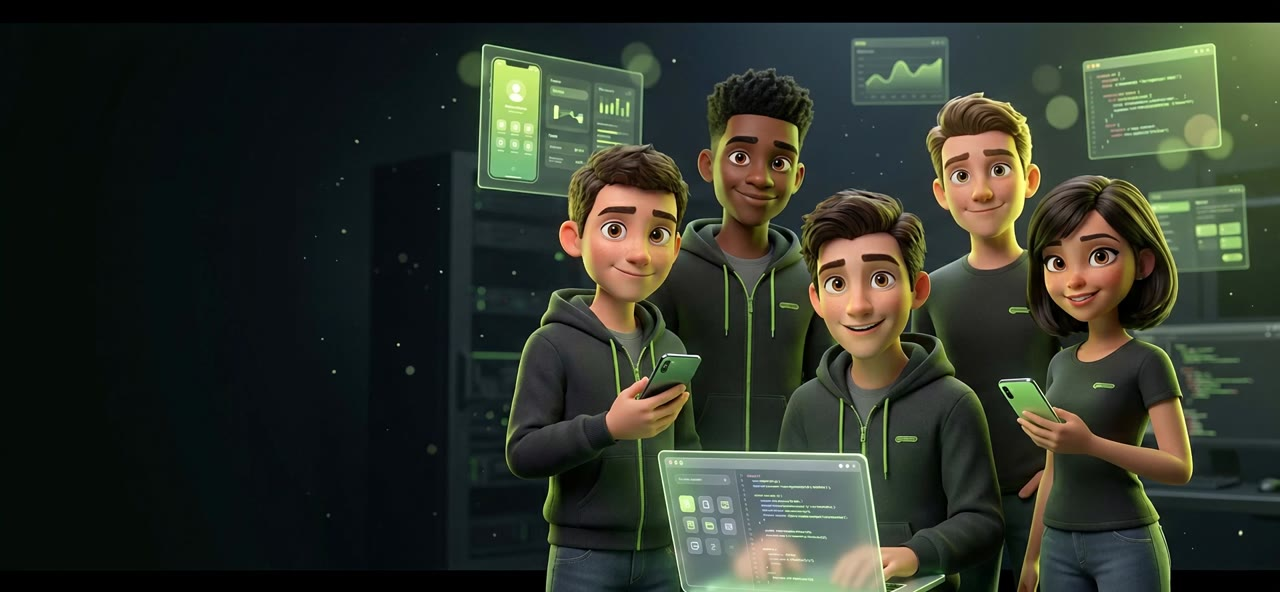
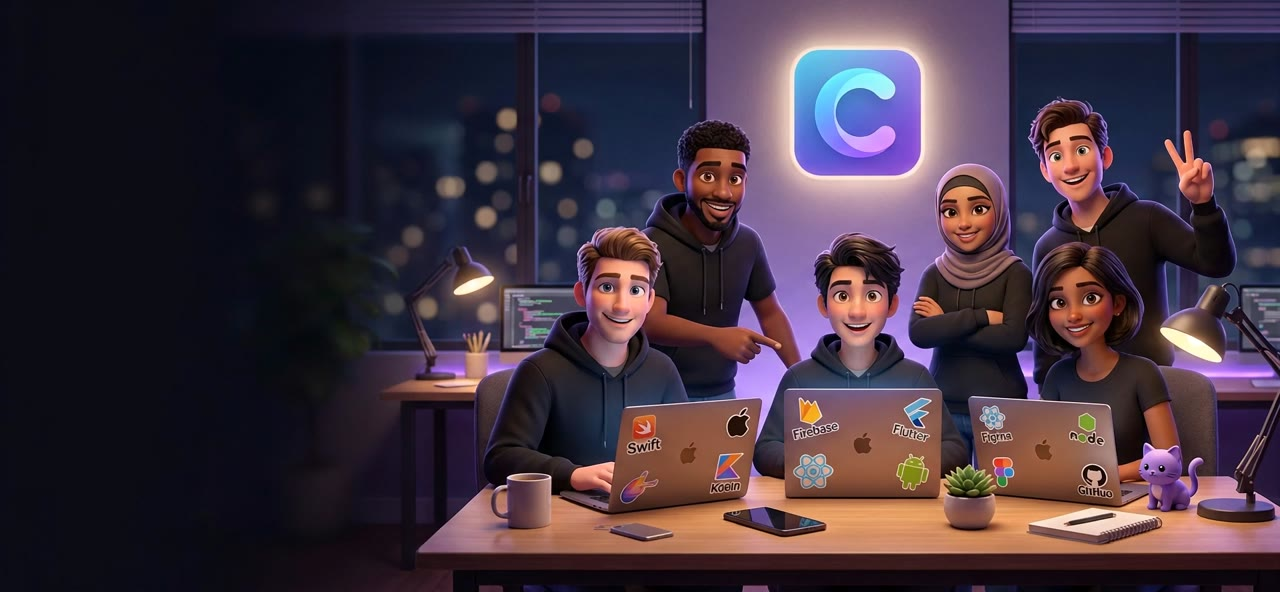
Deploy violet redesign

diff --git a/index.html b/index.html
@@ -4,7 +4,7 @@
     <meta charset="UTF-8" />
     <link rel="icon" type="image/svg+xml" href="/cgp-app-landing/favicon.svg" />
     <meta name="viewport" content="width=device-width, initial-scale=1.0, viewport-fit=cover" />
-    <meta name="theme-color" content="#08090a" />
+    <meta name="theme-color" content="#0b0a14" />
     <title>CGP.APP — Продуктовая команда. Создаём мобильные приложения</title>
     <meta
       name="description"
@@ -23,8 +23,8 @@
       rel="stylesheet"
     />
     <link rel="preload" as="image" href="/cgp-app-landing/video/team-poster.webp" fetchpriority="high" />
-    <script type="module" crossorigin src="/cgp-app-landing/assets/index-VWcQB9xP.js"></script>
-    <link rel="stylesheet" crossorigin href="/cgp-app-landing/assets/index-D9rqdx-E.css">
+    <script type="module" crossorigin src="/cgp-app-landing/assets/index-Bf8wi-yc.js"></script>
+    <link rel="stylesheet" crossorigin href="/cgp-app-landing/assets/index-BQWzrwIE.css">
   </head>
   <body>
     <div id="root"></div>

diff --git a/assets/index-BQWzrwIE.css b/assets/index-BQWzrwIE.css
@@ -1,0 +1,2 @@
+/*! tailwindcss v4.3.1 | MIT License | https://tailwindcss.com */
+@layer properties{@supports (((-webkit-hyphens:none)) and (not (margin-trim:inline))) or ((-moz-orient:inline) and (not (color:rgb(from red r g b)))){*,:before,:after,::backdrop{--tw-rotate-x:initial;--tw-rotate-y:initial;--tw-rotate-z:initial;--tw-skew-x:initial;--tw-skew-y:initial;--tw-blur:initial;--tw-brightness:initial;--tw-contrast:initial;--tw-grayscale:initial;--tw-hue-rotate:initial;--tw-invert:initial;--tw-opacity:initial;--tw-saturate:initial;--tw-sepia:initial;--tw-drop-shadow:initial;--tw-drop-shadow-color:initial;--tw-drop-shadow-alpha:100%;--tw-drop-shadow-size:initial}}}@layer theme{:root,:host{--font-sans:ui-sans-serif, system-ui, sans-serif, "Apple Color Emoji", "Segoe UI Emoji", "Segoe UI Symbol", "Noto Color Emoji";--font-mono:ui-monospace, SFMono-Regular, Menlo, Monaco, Consolas, "Liberation Mono", "Courier New", monospace;--spacing:.25rem;--radius-sm:.25rem;--default-transition-duration:.15s;--default-transition-timing-function:cubic-bezier(.4, 0, .2, 1);--default-font-family:var(--font-sans);--default-mono-font-family:var(--font-mono)}}@layer base{*,:after,:before,::backdrop{box-sizing:border-box;border:0 solid;margin:0;padding:0}::file-selector-button{box-sizing:border-box;border:0 solid;margin:0;padding:0}html,:host{-webkit-text-size-adjust:100%;tab-size:4;line-height:1.5;font-family:var(--default-font-family,ui-sans-serif, system-ui, sans-serif, "Apple Color Emoji", "Segoe UI Emoji", "Segoe UI Symbol", "Noto Color Emoji");font-feature-settings:var(--default-font-feature-settings,normal);font-variation-settings:var(--default-font-variation-settings,normal);-webkit-tap-highlight-color:transparent}hr{height:0;color:inherit;border-top-width:1px}abbr:where([title]){-webkit-text-decoration:underline dotted;text-decoration:underline dotted}h1,h2,h3,h4,h5,h6{font-size:inherit;font-weight:inherit}a{color:inherit;-webkit-text-decoration:inherit;-webkit-text-decoration:inherit;-webkit-text-decoration:inherit;-webkit-text-decoration:inherit;text-decoration:inherit}b,strong{font-weight:bolder}code,kbd,samp,pre{font-family:var(--default-mono-font-family,ui-monospace, SFMono-Regular, Menlo, Monaco, Consolas, "Liberation Mono", "Courier New", monospace);font-feature-settings:var(--default-mono-font-feature-settings,normal);font-variation-settings:var(--default-mono-font-variation-settings,normal);font-size:1em}small{font-size:80%}sub,sup{vertical-align:baseline;font-size:75%;line-height:0;position:relative}sub{bottom:-.25em}sup{top:-.5em}table{text-indent:0;border-color:inherit;border-collapse:collapse}:-moz-focusring{outline:auto}progress{vertical-align:baseline}summary{display:list-item}ol,ul,menu{list-style:none}img,svg,video,canvas,audio,iframe,embed,object{vertical-align:middle;display:block}img,video{max-width:100%;height:auto}button,input,select,optgroup,textarea{font:inherit;font-feature-settings:inherit;font-variation-settings:inherit;letter-spacing:inherit;color:inherit;opacity:1;background-color:#0000;border-radius:0}::file-selector-button{font:inherit;font-feature-settings:inherit;font-variation-settings:inherit;letter-spacing:inherit;color:inherit;opacity:1;background-color:#0000;border-radius:0}:where(select:is([multiple],[size])) optgroup{font-weight:bolder}:where(select:is([multiple],[size])) optgroup option{padding-inline-start:20px}::file-selector-button{margin-inline-end:4px}::placeholder{opacity:1}@supports (not ((-webkit-appearance:-apple-pay-button))) or (contain-intrinsic-size:1px){::placeholder{color:currentColor}@supports (color:color-mix(in lab, red, red)){::placeholder{color:color-mix(in oklab, currentcolor 50%, transparent)}}}textarea{resize:vertical}::-webkit-search-decoration{-webkit-appearance:none}::-webkit-date-and-time-value{min-height:1lh;text-align:inherit}::-webkit-datetime-edit{display:inline-flex}::-webkit-datetime-edit-fields-wrapper{padding:0}::-webkit-datetime-edit{padding-block:0}::-webkit-datetime-edit-year-field{padding-block:0}::-webkit-datetime-edit-month-field{padding-block:0}::-webkit-datetime-edit-day-field{padding-block:0}::-webkit-datetime-edit-hour-field{padding-block:0}::-webkit-datetime-edit-minute-field{padding-block:0}::-webkit-datetime-edit-second-field{padding-block:0}::-webkit-datetime-edit-millisecond-field{padding-block:0}::-webkit-datetime-edit-meridiem-field{padding-block:0}::-webkit-calendar-picker-indicator{line-height:1}:-moz-ui-invalid{box-shadow:none}button,input:where([type=button],[type=reset],[type=submit]){appearance:button}::file-selector-button{appearance:button}::-webkit-inner-spin-button{height:auto}::-webkit-outer-spin-button{height:auto}[hidden]:where(:not([hidden=until-found])){display:none!important}}@layer components;@layer utilities{.fixed{position:fixed}.container{width:100%}@media (width>=40rem){.container{max-width:40rem}}@media (width>=48rem){.container{max-width:48rem}}@media (width>=64rem){.container{max-width:64rem}}@media (width>=80rem){.container{max-width:80rem}}@media (width>=96rem){.container{max-width:96rem}}.flex{display:flex}.hidden{display:none}.inline-flex{display:inline-flex}.h-3{height:calc(var(--spacing) * 3)}.h-4{height:calc(var(--spacing) * 4)}.h-5{height:calc(var(--spacing) * 5)}.h-7{height:calc(var(--spacing) * 7)}.h-\[18px\]{height:18px}.w-3{width:calc(var(--spacing) * 3)}.w-4{width:calc(var(--spacing) * 4)}.w-5{width:calc(var(--spacing) * 5)}.w-7{width:calc(var(--spacing) * 7)}.w-\[18px\]{width:18px}.transform{transform:var(--tw-rotate-x,) var(--tw-rotate-y,) var(--tw-rotate-z,) var(--tw-skew-x,) var(--tw-skew-y,)}.filter{filter:var(--tw-blur,) var(--tw-brightness,) var(--tw-contrast,) var(--tw-grayscale,) var(--tw-hue-rotate,) var(--tw-invert,) var(--tw-saturate,) var(--tw-sepia,) var(--tw-drop-shadow,)}.transition{transition-property:color,background-color,border-color,outline-color,text-decoration-color,fill,stroke,--tw-gradient-from,--tw-gradient-via,--tw-gradient-to,opacity,box-shadow,transform,translate,scale,rotate,filter,-webkit-backdrop-filter,backdrop-filter,display,content-visibility,overlay,pointer-events;transition-timing-function:var(--tw-ease,var(--default-transition-timing-function));transition-duration:var(--tw-duration,var(--default-transition-duration))}}:root{--bg:#0b0a14;--bg-2:#0e0c1c;--panel:#14112a;--panel-2:#181534;--text:#f3f1fb;--muted:#9b95b8;--muted-2:#6f698f;--line:#221d3e;--line-2:#2d2750;--lime:#8b5cf6;--lime-solid:#7c5cff;--lime-dim:#8b5cf629;--grad-1:#5b9dff;--grad-2:#a855f7;--radius:12px;--radius-sm:8px;--maxw:1180px;--mono:"JetBrains Mono", ui-monospace, monospace;--sans:"Inter", system-ui, -apple-system, sans-serif}*{box-sizing:border-box;margin:0;padding:0}html{-webkit-text-size-adjust:100%}html.lenis,html.lenis body{height:auto}.lenis.lenis-smooth{scroll-behavior:auto!important}.lenis.lenis-stopped{overflow:hidden}body{background:var(--bg);color:var(--text);font-family:var(--sans);-webkit-font-smoothing:antialiased;text-rendering:optimizelegibility;font-size:16px;line-height:1.6;overflow-x:hidden}a{color:inherit;text-decoration:none}::selection{background:var(--lime-dim);color:var(--lime)}.wrap{max-width:var(--maxw);margin:0 auto;padding:0 24px}.mono{font-family:var(--mono)}h1,h2,h3{font-weight:600}::-webkit-scrollbar{width:10px}::-webkit-scrollbar-track{background:var(--bg)}::-webkit-scrollbar-thumb{background:var(--line-2);border:3px solid var(--bg);border-radius:99px}.scroll-progress{z-index:100;transform-origin:0;background:linear-gradient(90deg, var(--lime-solid), var(--lime));height:2px;position:fixed;top:0;left:0;right:0;transform:scaleX(0);box-shadow:0 0 12px #a3e63580}.grid-bg{z-index:0;pointer-events:none;background-image:linear-gradient(var(--line) 1px, transparent 1px), linear-gradient(90deg, var(--line) 1px, transparent 1px);opacity:.22;background-size:64px 64px;position:fixed;inset:0;-webkit-mask-image:radial-gradient(90% 55% at 50% 0,#000 8%,#0000 72%);mask-image:radial-gradient(90% 55% at 50% 0,#000 8%,#0000 72%)}header{z-index:50;-webkit-backdrop-filter:blur(10px);backdrop-filter:blur(10px);background:#08090a99;border-bottom:1px solid #0000;transition:border-color .3s,background .3s;position:fixed;top:0;left:0;right:0}header.scrolled{border-bottom-color:var(--line);background:#08090acc}.nav{justify-content:space-between;align-items:center;height:64px;display:flex}.brand{letter-spacing:-.02em;align-items:center;gap:10px;font-size:16px;font-weight:600;display:flex}.brand .logomark{flex:none;width:26px;height:26px}.brand b{color:var(--text);font-weight:700}.brand .dot-app{color:var(--lime);font-family:var(--mono);font-weight:500}.nav-links{align-items:center;gap:4px;display:flex}.nav-links a{color:var(--muted);border-radius:var(--radius-sm);padding:8px 12px;font-size:14px;transition:color .18s,background .18s}.nav-links a:hover{color:var(--text);background:var(--panel)}.nav-right{align-items:center;gap:12px;display:flex}.btn{border-radius:var(--radius-sm);cursor:pointer;white-space:nowrap;border:1px solid #0000;align-items:center;gap:8px;padding:9px 16px;font-size:14px;font-weight:500;transition:all .18s;display:inline-flex}.btn-primary{background:linear-gradient(100deg, var(--lime-solid), var(--grad-2));color:#fff;border-color:#0000;font-weight:600}.btn-primary:hover{filter:brightness(1.08);transform:translateY(-1px);box-shadow:0 10px 30px -8px #7c5cff99}.btn-ghost{color:var(--text);border-color:var(--line-2);background:0 0}.btn-ghost:hover{background:var(--panel);border-color:#3a3d44}.btn-lg{padding:12px 22px;font-size:15px}.burger{border:1px solid var(--line-2);border-radius:var(--radius-sm);width:40px;height:40px;color:var(--text);cursor:pointer;background:0 0;justify-content:center;align-items:center;display:none}.mobile-menu{z-index:60;-webkit-backdrop-filter:blur(16px);backdrop-filter:blur(16px);background:#08090af7;flex-direction:column;padding:0 24px;display:flex;position:fixed;inset:0}.mobile-menu a.m-link{border-bottom:1px solid var(--line);color:var(--text);padding:16px 0;font-size:26px;font-weight:600}main{z-index:1;position:relative}section{padding:84px 0}.badge{font-family:var(--mono);color:var(--muted);border:1px solid var(--line);background:var(--panel);border-radius:100px;align-items:center;gap:8px;padding:5px 11px;font-size:12px;display:inline-flex}.badge .pulse{background:var(--lime);border-radius:50%;width:7px;height:7px;animation:2.2s infinite pulse;box-shadow:0 0 #a3e63580}@keyframes pulse{50%{opacity:.5}}h1{letter-spacing:-.03em;font-size:clamp(36px,5.6vw,62px);font-weight:700;line-height:1.04}h1 .accent{background:linear-gradient(100deg, var(--grad-1), var(--grad-2));-webkit-text-fill-color:transparent;color:#0000;-webkit-background-clip:text;background-clip:text}.sub{color:var(--muted);max-width:500px;margin-top:20px;font-size:17px;line-height:1.6}.hero-cta{flex-wrap:wrap;align-items:center;gap:12px;margin-top:30px;display:flex}.trust{font-family:var(--mono);color:var(--muted);flex-wrap:wrap;align-items:center;gap:14px;margin-top:28px;font-size:13px;display:flex}.trust .star{color:var(--lime)}.trust .sep{background:var(--muted-2);border-radius:99px;width:3px;height:3px}.sec-head{max-width:640px;margin-bottom:44px}.sec-kicker{font-family:var(--mono);color:var(--lime);letter-spacing:.04em;align-items:center;gap:8px;margin-bottom:14px;font-size:12px;display:inline-flex}.sec-kicker .idx{color:var(--muted-2)}h2{letter-spacing:-.025em;font-size:clamp(26px,3.4vw,38px);font-weight:600;line-height:1.12}.sec-head p{color:var(--muted);margin-top:14px;font-size:16px}.vhero{border-bottom:1px solid var(--line);align-items:center;min-height:100svh;display:flex;position:relative;overflow:hidden}.vhero-media{z-index:0;will-change:transform, filter;position:absolute;inset:0}.vhero-media video,.vhero-media img.vposter{object-fit:cover;object-position:66% center;width:100%;height:100%;position:absolute;inset:0}.vhero-scrim{z-index:1;pointer-events:none;background:linear-gradient(90deg, var(--bg) 0%, #08090adb 30%, #08090a52 58%, #08090a1a 100%), linear-gradient(0deg, var(--bg) 2%, #08090a00 36%), radial-gradient(120% 90% at 78% 38%, #a3e6351a, transparent 60%);position:absolute;inset:0}.vhero-grid{z-index:2;pointer-events:none;opacity:.16;background-image:linear-gradient(var(--line) 1px, transparent 1px), linear-gradient(90deg, var(--line) 1px, transparent 1px);background-size:64px 64px;position:absolute;inset:0;-webkit-mask-image:radial-gradient(80% 70% at 28%,#000,#0000 72%);mask-image:radial-gradient(80% 70% at 28%,#000,#0000 72%)}.vhero-inner{z-index:5;width:100%;position:relative}.vhero-copy{max-width:620px}.eyebrow-chip{font-family:var(--mono);color:var(--lime);border:1px solid var(--lime-dim);background:#a3e6350f;border-radius:99px;align-items:center;gap:8px;padding:6px 12px;font-size:12.5px;display:inline-flex}.vhero h1{margin-top:22px}.vhero .sub{max-width:520px}.vchip{z-index:4;font-family:var(--mono);color:var(--text);border:1px solid var(--line-2);-webkit-backdrop-filter:blur(6px);backdrop-filter:blur(6px);background:#0e0f11b8;border-radius:10px;align-items:center;gap:7px;padding:7px 11px;font-size:12px;display:inline-flex;position:absolute}.vchip .d{background:var(--lime);border-radius:99px;width:7px;height:7px}.vchip.c1{top:19%;right:8%}.vchip.c2{top:45%;right:3%}.vchip.c3{bottom:17%;right:15%}@keyframes floaty{0%,to{transform:translateY(0)}50%{transform:translateY(-12px)}}.vpause{z-index:6;border:1px solid var(--line-2);-webkit-backdrop-filter:blur(6px);backdrop-filter:blur(6px);width:38px;height:38px;color:var(--text);cursor:pointer;background:#0e0f11b3;border-radius:99px;justify-content:center;align-items:center;transition:border-color .2s,color .2s;display:flex;position:absolute;bottom:18px;right:18px}.vpause:hover{border-color:var(--lime);color:var(--lime)}.scroll-hint{z-index:6;color:var(--muted-2);font-family:var(--mono);flex-direction:column;align-items:center;gap:6px;font-size:11px;display:flex;position:absolute;bottom:20px;left:50%;transform:translate(-50%)}.scroll-hint .m{border:1px solid var(--line-2);border-radius:99px;width:20px;height:32px;position:relative}.scroll-hint .m:after{content:"";background:var(--lime);border-radius:9px;width:3px;height:6px;animation:1.6s infinite scrolly;position:absolute;top:6px;left:50%;transform:translate(-50%)}@keyframes scrolly{0%{opacity:1;top:6px}70%{opacity:0;top:18px}to{opacity:0}}.strip{border-top:1px solid var(--line);border-bottom:1px solid var(--line);padding:22px 0;overflow:hidden}.strip-inner{align-items:center;gap:28px;display:flex}.strip-label{font-family:var(--mono);color:var(--muted-2);letter-spacing:.06em;text-transform:uppercase;white-space:nowrap;font-size:11px}.marquee-mask{flex:1;overflow:hidden;-webkit-mask-image:linear-gradient(90deg,#0000,#000 6% 94%,#0000);mask-image:linear-gradient(90deg,#0000,#000 6% 94%,#0000)}.marquee-row{will-change:transform;align-items:center;gap:40px;width:max-content;display:flex}.lg{color:var(--muted);white-space:nowrap;align-items:center;gap:8px;font-size:15px;font-weight:600;transition:color .2s;display:flex}.lg:hover{color:var(--text)}.stack{position:relative}.stack-card{border:1px solid var(--line);background:var(--panel);border-radius:var(--radius);transform-origin:top;padding:30px 28px;position:sticky;overflow:hidden}.stack-card .card-top{justify-content:space-between;align-items:center;margin-bottom:20px;display:flex}.card-ico{border:1px solid var(--line-2);width:44px;height:44px;color:var(--text);border-radius:10px;justify-content:center;align-items:center;transition:border-color .2s,color .2s;display:flex}.stack-card:hover .card-ico{border-color:var(--lime);color:var(--lime)}.card-num{font-family:var(--mono);color:var(--muted-2);font-size:12px}.stack-card h3{letter-spacing:-.01em;margin-bottom:10px;font-size:22px;font-weight:600}.stack-card p{color:var(--muted);max-width:560px;font-size:15px;line-height:1.6}.stack-card .arrow{font-family:var(--mono);color:var(--muted-2);align-items:center;gap:6px;margin-top:18px;font-size:13px;transition:color .2s,gap .2s;display:inline-flex}.stack-card:hover .arrow{color:var(--lime);gap:10px}.card-glow{opacity:0;background:radial-gradient(circle,#a3e6351a,#0000 70%);border-radius:50%;width:220px;height:220px;transition:opacity .3s;position:absolute;top:-40px;right:-40px}.stack-card:hover .card-glow{opacity:1}.cases-pin{position:relative}.cases-track{will-change:transform;gap:24px;padding:0 24px;display:flex}.case-card{border:1px solid var(--line);border-radius:var(--radius);background:var(--panel);flex:none;width:380px;transition:border-color .2s;position:relative;overflow:hidden}.case-card:hover{border-color:var(--line-2)}.case-vis{border-bottom:1px solid var(--line);justify-content:center;align-items:center;height:220px;display:flex;position:relative;overflow:hidden}.case-body{padding:22px 22px 24px}.case-cat{font-family:var(--mono);color:var(--lime);font-size:11px}.case-card h3{margin:10px 0 8px;font-size:22px}.case-card p{color:var(--muted);font-size:14.5px}.case-metric{border-top:1px solid var(--line);font-family:var(--mono);color:var(--text);justify-content:space-between;margin-top:16px;padding-top:16px;font-size:13px;display:flex}.case-metric .ml{color:var(--muted-2)}.stats{border:1px solid var(--line);border-radius:var(--radius);grid-template-columns:repeat(4,1fr);display:grid;overflow:hidden}.stat{border-right:1px solid var(--line);padding:36px 28px;transition:background .2s}.stat:last-child{border-right:0}.stat:hover{background:var(--panel)}.stat .tick{font-family:var(--mono);color:var(--muted-2);margin-bottom:16px;font-size:11px;display:block}.stat .num{letter-spacing:-.03em;align-items:baseline;gap:2px;font-size:clamp(34px,4vw,46px);font-weight:700;line-height:1;display:flex}.stat .num .plus{color:var(--lime);font-weight:600}.stat .lbl{color:var(--muted);margin-top:12px;font-size:14px}.proc{position:relative}.proc-line{width:2px;position:absolute;top:8px;bottom:8px;left:27px}.proc-line svg{width:2px;height:100%;position:absolute;inset:0;overflow:visible}.proc-step{gap:22px;padding:0 0 44px;display:flex;position:relative}.proc-step:last-child{padding-bottom:0}.proc-dot{z-index:2;border:1px solid var(--line-2);background:var(--bg);width:56px;height:56px;color:var(--lime);border-radius:14px;flex:none;justify-content:center;align-items:center;display:flex;position:relative}.proc-num{background:var(--lime);color:#0a0b0c;width:22px;height:22px;font-family:var(--mono);border-radius:99px;justify-content:center;align-items:center;font-size:11px;font-weight:700;display:flex;position:absolute;top:-8px;right:-8px}.proc-step h3{margin-bottom:6px;font-size:18px}.proc-step p{color:var(--muted);max-width:520px;font-size:14.5px}.cta{border:1px solid var(--line-2);background:radial-gradient(120% 140% at 100% 0%, #a3e63512, transparent 55%), var(--panel);border-radius:16px;padding:56px 44px;position:relative;overflow:hidden}.cta-grid{background-image:linear-gradient(var(--line) 1px, transparent 1px), linear-gradient(90deg, var(--line) 1px, transparent 1px);opacity:.4;pointer-events:none;background-size:48px 48px;position:absolute;inset:0;-webkit-mask-image:radial-gradient(70% 100% at 100% 0,#000,#0000 70%);mask-image:radial-gradient(70% 100% at 100% 0,#000,#0000 70%)}.cta-inner{z-index:1;max-width:640px;position:relative}.cta h2{font-size:clamp(28px,4vw,42px)}.cta p{color:var(--muted);max-width:480px;margin-top:14px;font-size:16px}footer{border-top:1px solid var(--line);z-index:1;padding:56px 0 40px;position:relative}.foot{flex-wrap:wrap;justify-content:space-between;align-items:flex-start;gap:32px;display:flex}.foot-brand{max-width:300px}.foot-brand p{color:var(--muted);margin-top:14px;font-size:14px}.foot-col h4{font-size:12px;font-family:var(--mono);color:var(--muted-2);text-transform:uppercase;letter-spacing:.06em;margin-bottom:14px}.foot-col a{color:var(--muted);padding:5px 0;font-size:14px;transition:color .2s;display:block}.foot-col a:hover{color:var(--lime)}.foot-cols{flex-wrap:wrap;gap:56px;display:flex}.foot-bottom{border-top:1px solid var(--line);color:var(--muted-2);font-size:13px;font-family:var(--mono);flex-wrap:wrap;justify-content:space-between;gap:16px;margin-top:44px;padding-top:24px;display:flex}.reveal-up{opacity:0;transition:opacity .7s cubic-bezier(.16,1,.3,1),transform .7s cubic-bezier(.16,1,.3,1);transform:translateY(24px)}.reveal-up.in{opacity:1;transform:none}.hero-stats{flex-wrap:wrap;gap:30px;margin-top:34px;display:flex}.hstat{min-width:84px}.hstat .hico{color:var(--lime);opacity:.9;margin-bottom:9px}.hstat .hn{letter-spacing:-.02em;align-items:baseline;gap:1px;font-size:26px;font-weight:700;line-height:1;display:flex}.hstat .hn .plus{color:var(--lime)}.hstat .hl{color:var(--muted);max-width:96px;margin-top:6px;font-size:12px;line-height:1.3}.pstrip-sec{padding-top:0}.pstrip{border:1px solid var(--line);background:radial-gradient(120% 140% at 0% 0%, #8b5cf612, transparent 55%), var(--panel);border-radius:14px;align-items:stretch;gap:6px;padding:22px;display:flex}.pstep{flex:1 1 0;align-items:flex-start;gap:13px;min-width:0;display:flex}.pstep .pico{border:1px solid var(--line-2);width:44px;height:44px;color:var(--lime);background:var(--panel-2);border-radius:11px;flex:none;justify-content:center;align-items:center;display:flex}.pstep .pnum{font-family:var(--mono);color:var(--muted-2);font-size:12px}.pstep .ptitle{margin-top:1px;font-size:14.5px;font-weight:600}.pstep .pdesc{color:var(--muted);margin-top:4px;font-size:12.5px;line-height:1.4}.parrow{color:var(--muted-2);opacity:.6;flex:none;align-self:center}.logo-grad-1{stop-color:var(--grad-1)}.logo-grad-2{stop-color:var(--grad-2)}@media (width<=920px){.nav-links,.nav-right .btn{display:none}.burger{display:flex}.pstrip{flex-direction:column;gap:18px}.parrow{display:none}.stats{grid-template-columns:repeat(2,1fr)}.stat:nth-child(2){border-right:0}.stat:first-child,.stat:nth-child(2){border-bottom:1px solid var(--line)}.cases-track{max-width:var(--maxw);flex-direction:column;margin:0 auto;padding:0 24px;transform:none!important}.case-card{width:100%}.stack-card{margin-bottom:16px;opacity:1!important;min-height:0!important;position:static!important;top:auto!important;transform:none!important}}@media (width<=680px){section{padding:64px 0}.vchip{display:none}.vhero-media video,.vhero-media img.vposter{object-position:62% center}.vhero-scrim{background:linear-gradient(0deg, var(--bg) 6%, #08090a66 52%, #08090ab8 100%), linear-gradient(90deg, #08090aa6, #08090a4d)}.cta{padding:40px 24px}.case-card{width:300px}}@media (width<=480px){.stats{grid-template-columns:1fr}.stat{border-right:0;border-bottom:1px solid var(--line)}.stat:last-child{border-bottom:0}}@media (prefers-reduced-motion:reduce){*,:before,:after{transition-duration:.001ms!important;animation-duration:.001ms!important;animation-iteration-count:1!important}.reveal-up{opacity:1;transform:none}.stack-card{margin-bottom:16px;opacity:1!important;min-height:0!important;position:static!important;top:auto!important;transform:none!important}.cases-track{max-width:var(--maxw);margin:0 auto;padding:0 24px;flex-direction:column!important;transform:none!important}.case-card{width:100%!important}}@property --tw-rotate-x{syntax:"*";inherits:false}@property --tw-rotate-y{syntax:"*";inherits:false}@property --tw-rotate-z{syntax:"*";inherits:false}@property --tw-skew-x{syntax:"*";inherits:false}@property --tw-skew-y{syntax:"*";inherits:false}@property --tw-blur{syntax:"*";inherits:false}@property --tw-brightness{syntax:"*";inherits:false}@property --tw-contrast{syntax:"*";inherits:false}@property --tw-grayscale{syntax:"*";inherits:false}@property --tw-hue-rotate{syntax:"*";inherits:false}@property --tw-invert{syntax:"*";inherits:false}@property --tw-opacity{syntax:"*";inherits:false}@property --tw-saturate{syntax:"*";inherits:false}@property --tw-sepia{syntax:"*";inherits:false}@property --tw-drop-shadow{syntax:"*";inherits:false}@property --tw-drop-shadow-color{syntax:"*";inherits:false}@property --tw-drop-shadow-alpha{syntax:"<percentage>";inherits:false;initial-value:100%}@property --tw-drop-shadow-size{syntax:"*";inherits:false}